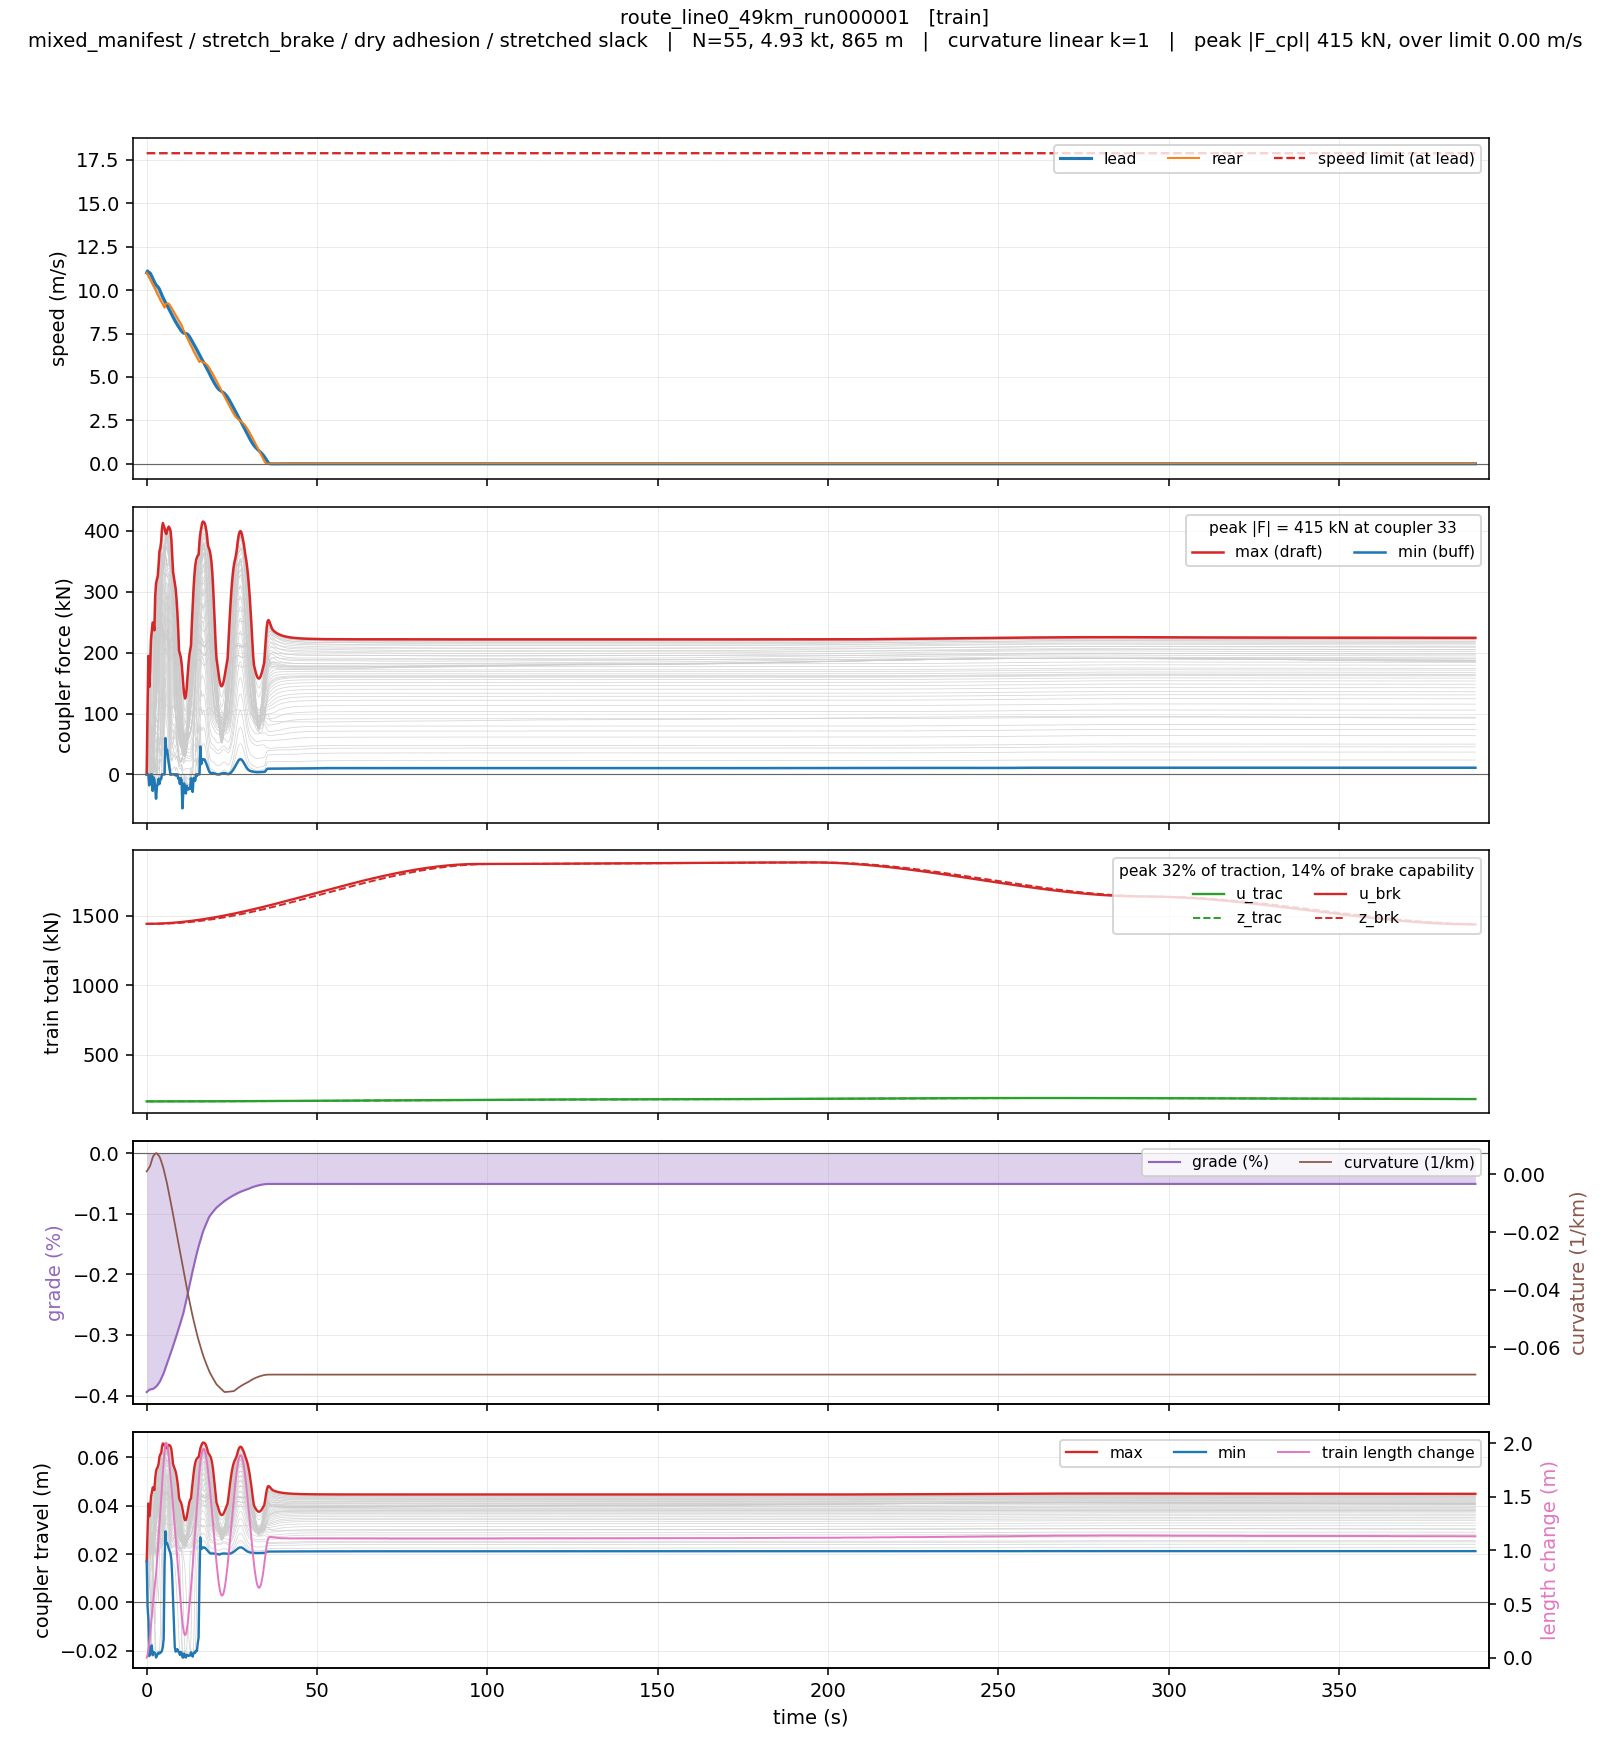
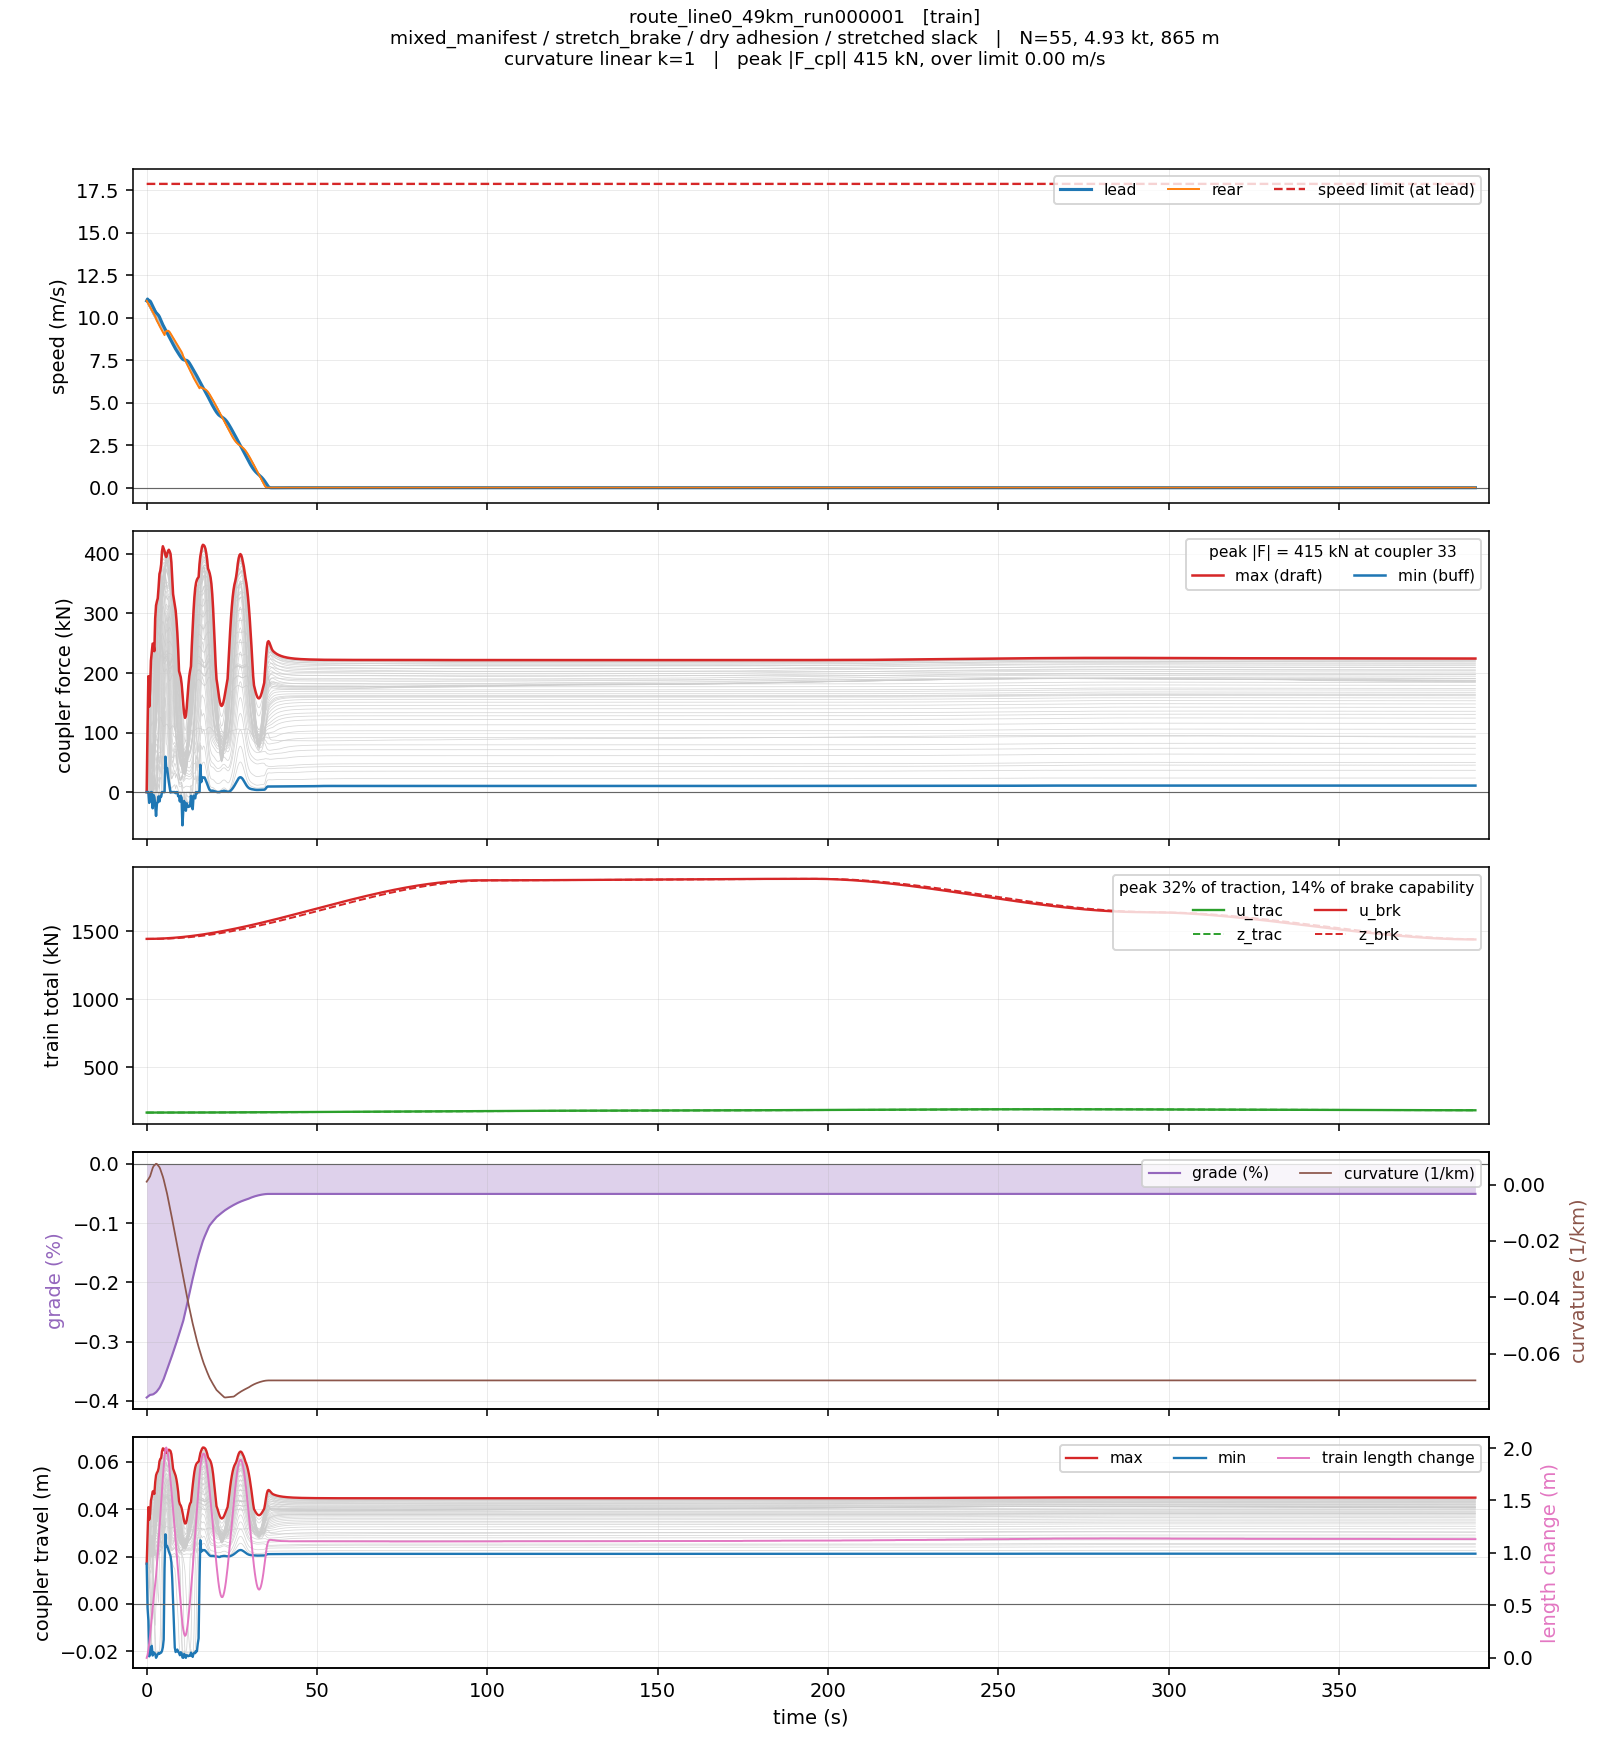
Wrap the viewer subtitle instead of letting it clip
Rendering a spread of scenarios showed the second title line running off
both edges of the canvas whenever the consist and control labels were
long -- "mixed_manifest / dynamic_brake_descent / dry adhesion / stretched
slack" lost its first characters and its last field. matplotlib clips a
suptitle silently, so the loss only shows up by eye.

The facts are now packed onto as many lines as they need, and the axes
give up headroom per wrapped line. Both committed figures are re-rendered
with full titles.

Claude-Session: https://claude.ai/code/session_012EH41hUoyMB9Nit8r3CqyQ

diff --git a/scripts/view_scenario.py b/scripts/view_scenario.py
@@ -198,17 +198,41 @@ def plot_scenario(d: dict, route: dict, row, vs_distance: bool):
         ax.grid(alpha=0.25, lw=0.5)
         ax.margins(x=0.01)
 
-    fig.suptitle(
-        f"{row.scenario_id}   [{row.split}]\n"
+    subtitle = _wrap_facts([
         f"{row.consist_label} / {row.control_label} / {row.adhesion} adhesion / "
-        f"{row.slack_state} slack   |   N={n}, {row.total_mass_kg / 1e6:.2f} kt, "
-        f"{row.consist_len_m:.0f} m   |   curvature {row.curvature_model} "
-        f"k={row.k_curv_scale:g}   |   peak |F_cpl| {peak:,.0f} kN, "
+        f"{row.slack_state} slack",
+        f"N={n}, {row.total_mass_kg / 1e6:.2f} kt, {row.consist_len_m:.0f} m",
+        f"curvature {row.curvature_model} k={row.k_curv_scale:g}",
+        f"peak |F_cpl| {peak:,.0f} kN, "
         f"over limit {row.v_over_limit_max_mps:.2f} m/s",
-        fontsize=10, y=0.995,
-    )
-    fig.tight_layout(rect=(0, 0, 1, 0.97))
+    ])
+    fig.suptitle(f"{row.scenario_id}   [{row.split}]\n{subtitle}",
+                 fontsize=9.5, y=0.995)
+    # Every wrapped line of the subtitle costs the axes a little headroom.
+    fig.tight_layout(rect=(0, 0, 1, 0.975 - 0.013 * subtitle.count("\n")))
     return fig
+
+
+# The subtitle carries whatever the consist and control labels happen to be,
+# and for the longer ones one line runs off an 11.5 in canvas -- matplotlib
+# clips it at both ends rather than complaining. Pack the facts onto as many
+# lines as they need instead.
+_SUBTITLE_COLS = 112
+
+
+def _wrap_facts(facts, cols: int = _SUBTITLE_COLS) -> str:
+    """Join ``facts`` with " | ", breaking the line before it overruns."""
+    lines, cur = [], ""
+    for fact in facts:
+        candidate = f"{cur}   |   {fact}" if cur else fact
+        if cur and len(candidate) > cols:
+            lines.append(cur)
+            cur = fact
+        else:
+            cur = candidate
+    if cur:
+        lines.append(cur)
+    return "\n".join(lines)
 
 
 def print_summary(row) -> None:
